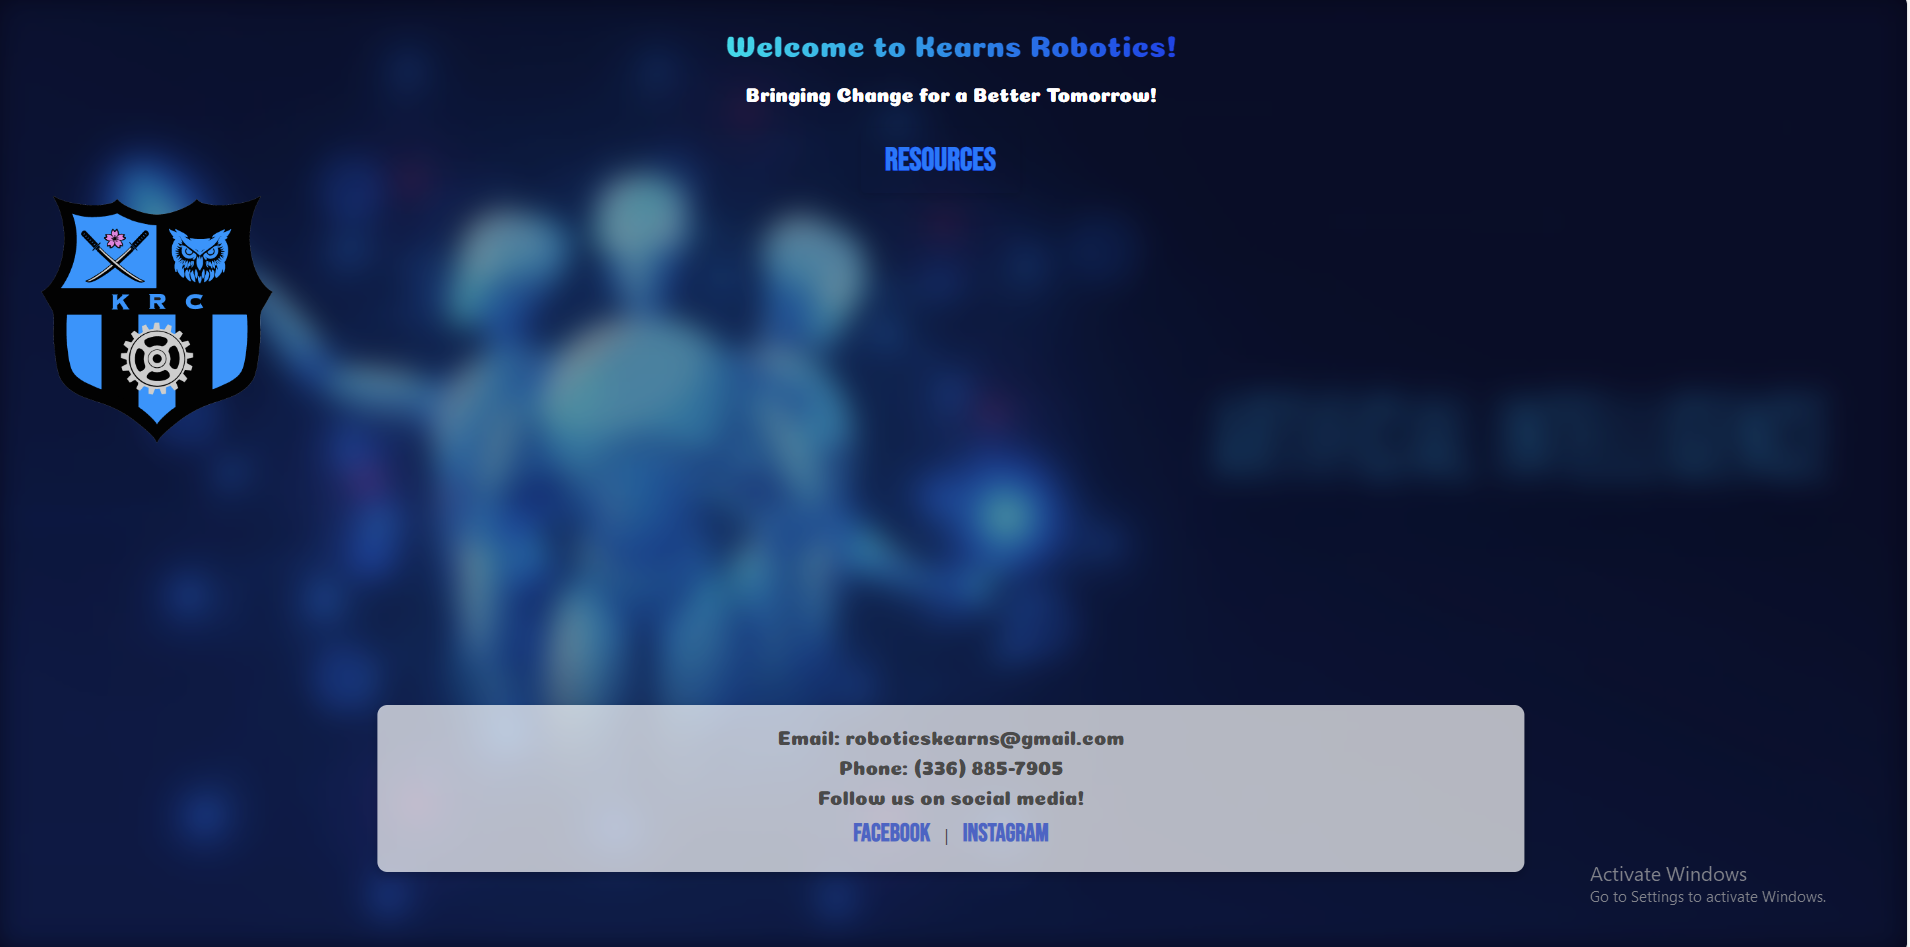
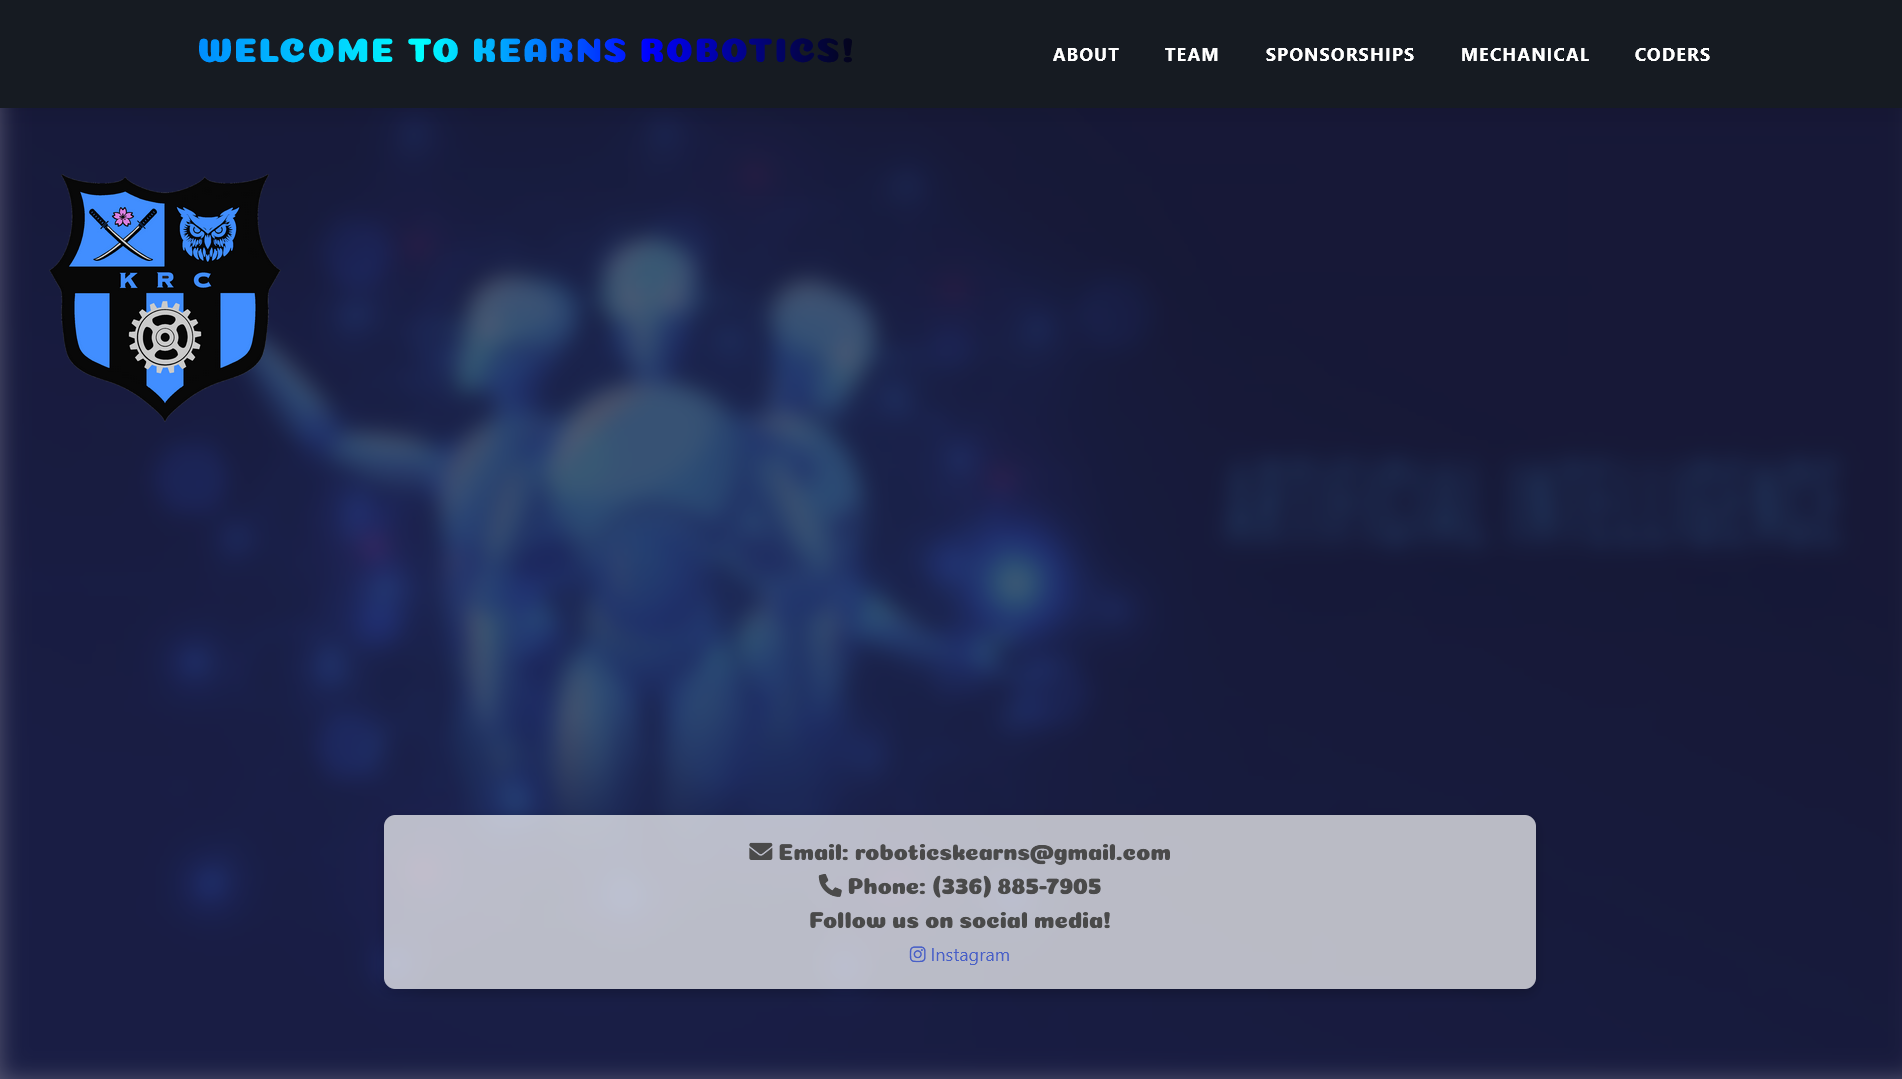
redid images and project sections and about

diff --git a/project.html b/project.html
@@ -123,7 +123,7 @@
           <div class="card-content">
             <div class="project-info">
               <h3 class="title">Manga Search</h3>
-              <p>A Chrome extension to search anime by name and get detailed information about episodes, ratings, and
+              <p>A Chrome extension I made for CS50X to search anime by name and get detailed information about episodes, ratings, and
                 reviews.</p>
               <div class="project-technologies">
                 <span class="tech-tag">JavaScript</span>
@@ -135,7 +135,7 @@
               <a href="https://mangaanimesearch.netlify.app/" target="_blank" class="project-link">
                 <i class="fas fa-external-link-alt"></i> Live Demo
               </a>
-              <a href="https://github.com/Misto0o/Chrome-Extention" target="_blank" class="github-link">
+              <a href="https://github.com/Misto0o/CS50X-Chrome-Extention" target="_blank" class="github-link">
                 <i class="fab fa-github"></i> GitHub
               </a>
             </div>
@@ -154,7 +154,7 @@
               <h3 class="title">Mist.AI</h3>
               <p>Mist.AI is a powerful AI assistant powered by Gemini, Command R, and Mistral AI, offering
                 real-time knowledge, a polished UI, browser extensions, and advanced features like image OCR, session
-                memory, and seamless cross-device support..</p>
+                memory, and seamless cross-device support.</p>
               <div class="project-technologies">
                 <span class="tech-tag">Python</span>
                 <span class="tech-tag">Javascript</span>

diff --git a/about.html b/about.html
@@ -161,10 +161,13 @@
             <ul>
                 <li>Robotics</li>
                 <li>Game Development</li>
-                <li>Learning New Technologies</li>
                 <li>Gaming</li>
                 <li>Having fun with friends</li>
                 <li>Problem-Solving</li>
+                <li>Watching TV shows</li>
+                <li>Listening to Music</li>
+                <li>Exploring New Ideas</li>
+                <li>Chess</li>
             </ul>
         </section>
 

diff --git a/about.js b/about.js
@@ -46,8 +46,6 @@ function updateLiveAge() {
 setInterval(updateLiveAge, 1000);
 updateLiveAge();
 
-
-
 // Function to adjust layout based on screen size
 function checkScreenSize() {
     const isMobile = window.matchMedia("(max-width: 768px)").matches;
